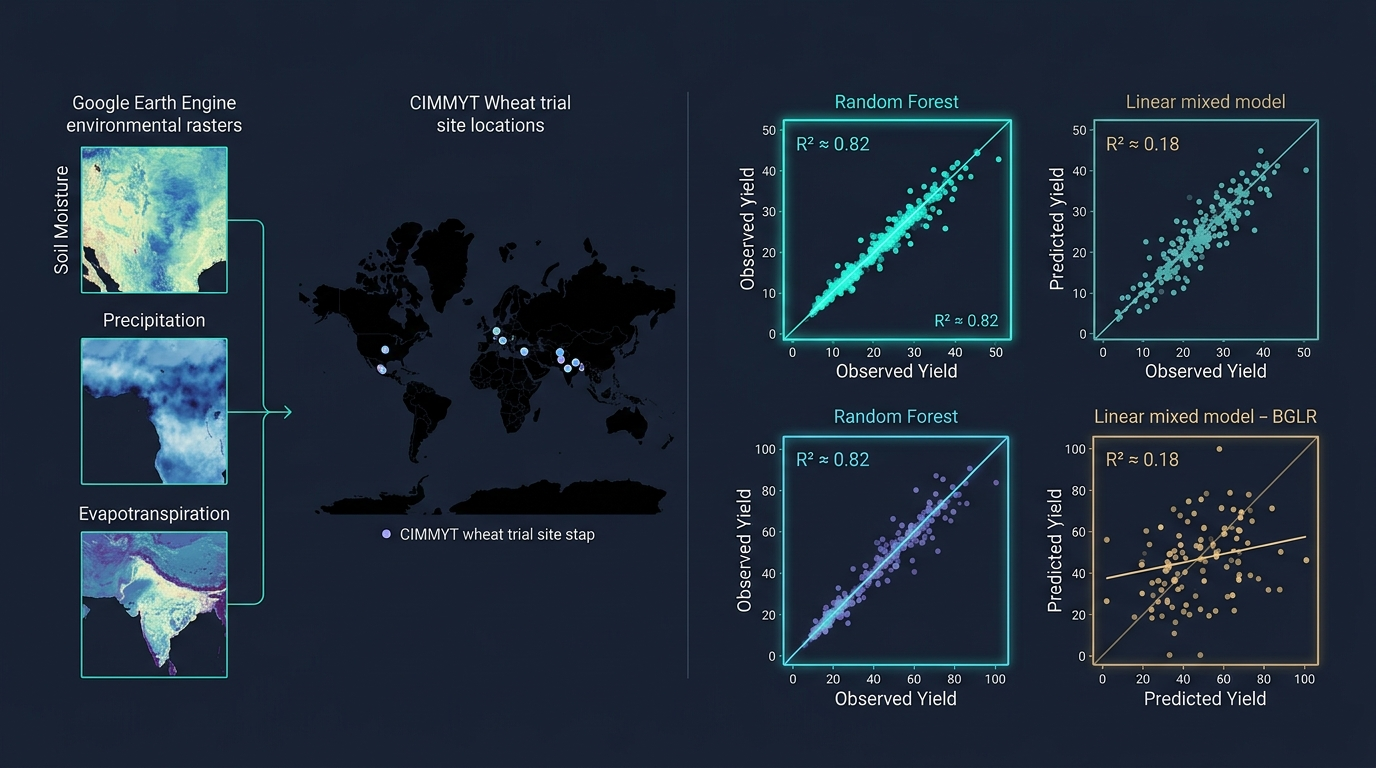
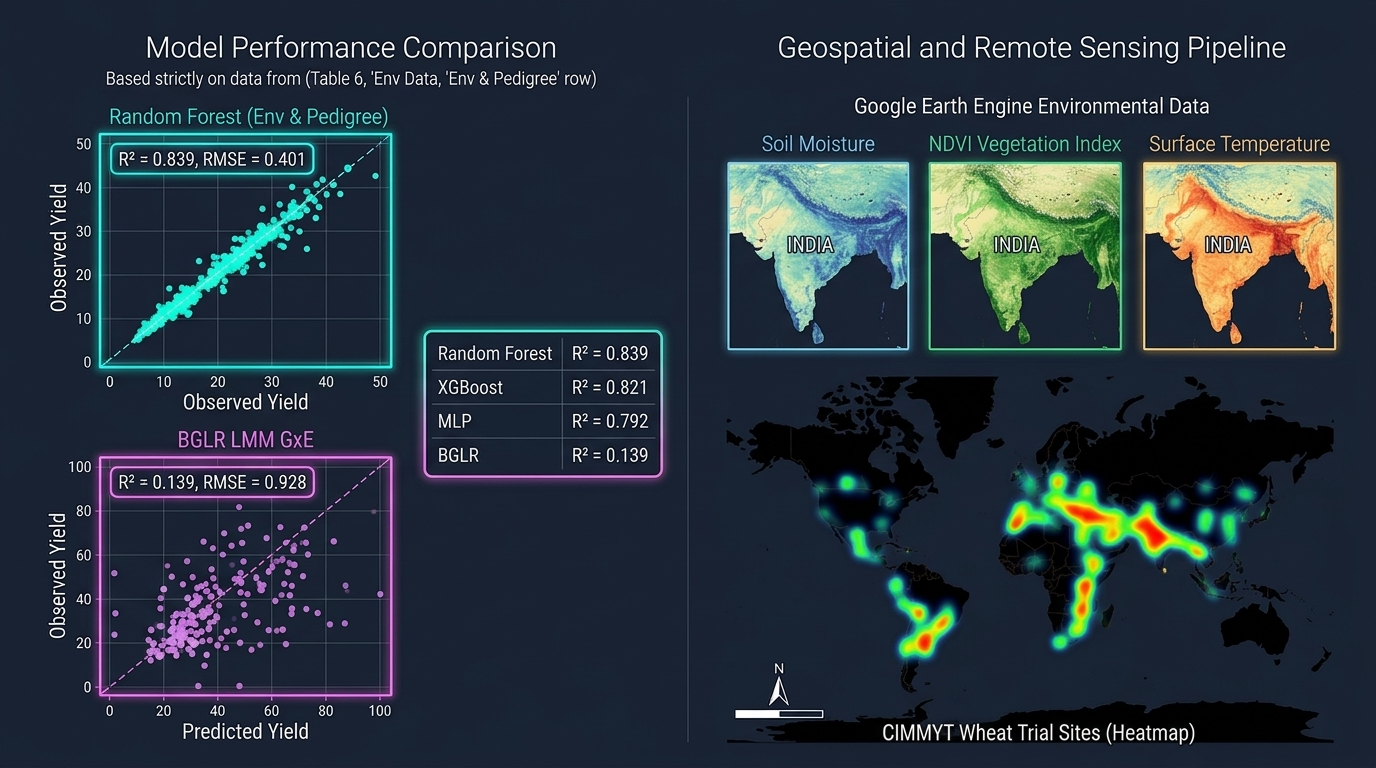
fix(wheat-yield): update featured image to match report Table 6 and Figure 1

diff --git a/content/projects/wheat_yield_prediction/index.md b/content/projects/wheat_yield_prediction/index.md
@@ -9,7 +9,7 @@ links:
   - type: pdf
     url: https://raw.githubusercontent.com/AaronScherf/wheat_yield_prediction_gee/master/reports/Aaron_M_Scherf_Final_Thesis.pdf
 image:
-  caption: 'Predicted vs observed wheat yields comparing Random Forest and BGLR alongside Google Earth Engine satellite environmental rasters and CIMMYT trial locations'
+  caption: 'Predicted vs observed wheat yields comparing Random Forest and BGLR alongside Google Earth Engine satellite environmental rasters over India and global CIMMYT trial locations'
 tags:
   - Python
   - Machine Learning
@@ -20,7 +20,7 @@ My master's thesis for UC Berkeley's Master of Development Practice program (Spr
 
 <!--more-->
 
-*Figure: Predicted vs observed wheat yields comparing Random Forest ($R^2 \approx 0.82$) and BGLR ($R^2 \approx 0.11\text{–}0.26$) alongside Google Earth Engine satellite environmental rasters and CIMMYT trial locations.*
+*Figure: Model performance comparison based on Table 6 (Random Forest $R^2 = 0.839$, $\text{RMSE} = 0.401$ vs BGLR $R^2 = 0.139$, $\text{RMSE} = 0.928$) alongside Google Earth Engine satellite environmental rasters over India and CIMMYT global trial site heatmap.*
 
 Crop breeding research is good at identifying which genetic crosses raise yield, but far weaker at predicting "which variety wins where" once a new environment lacks prior field trials — a gap that hits hardest in the low-income regions most exposed to climate change, where running additional trials is expensive. This thesis asks whether Google Earth Engine's free environmental data, paired with open-source machine learning tools, can substitute for costly manually collected trial data as a low-cost, reproducible alternative for out-of-sample yield prediction.
 
